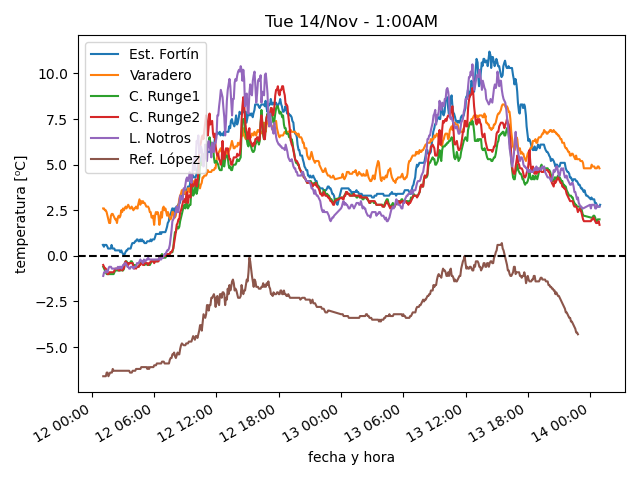
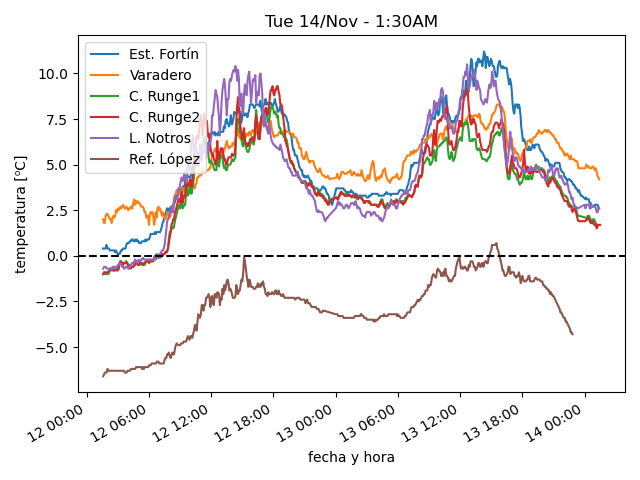
actualiza datos

diff --git a/estaciones/estacion2.html b/estaciones/estacion2.html
@@ -18,32 +18,32 @@
     </tr>
     <tr>
      <td class="stats_data">
-      12:54AM
+      1:24AM
      </td>
     </tr>
     <tr>
      <td class="stats_data">
-      4.8⁰C
+      4.2⁰C
      </td>
     </tr>
     <tr>
      <td class="stats_data">
-      0.9⁰C
+      -0.2⁰C
      </td>
     </tr>
     <tr>
      <td class="stats_data">
-      75.6%
+      73.0%
      </td>
     </tr>
     <tr>
      <td class="stats_data">
-      1020.12hPa
+      1019.91hPa
      </td>
     </tr>
     <tr>
      <td class="stats_data">
-      33.9/42.1 km/hr NW
+      18.0/24.9 km/hr WNW
      </td>
     </tr>
     <tr>

diff --git a/estaciones/estacion1.html b/estaciones/estacion1.html
@@ -18,32 +18,32 @@
     </tr>
     <tr>
      <td class="stats_data">
-      12:58AM
+      1:24AM
      </td>
     </tr>
     <tr>
      <td class="stats_data">
-      2.8⁰C
+      2.6⁰C
      </td>
     </tr>
     <tr>
      <td class="stats_data">
-      -2.9⁰C
+      -2.7⁰C
      </td>
     </tr>
     <tr>
      <td class="stats_data">
-      66.0%
+      68.0%
      </td>
     </tr>
     <tr>
      <td class="stats_data">
-      1015.24hPa
+      1014.9hPa
      </td>
     </tr>
     <tr>
      <td class="stats_data">
-      15.3/24.1 km/hr WNW
+      13.9/24.1 km/hr W
      </td>
     </tr>
     <tr>

diff --git a/estaciones/estacion3.html b/estaciones/estacion3.html
@@ -18,32 +18,32 @@
     </tr>
     <tr>
      <td class="stats_data">
-      12:54AM
+      1:14AM
      </td>
     </tr>
     <tr>
      <td class="stats_data">
-      2.0⁰C
+      1.7⁰C
      </td>
     </tr>
     <tr>
      <td class="stats_data">
-      -1.9⁰C
+      -2.3⁰C
      </td>
     </tr>
     <tr>
      <td class="stats_data">
-      75.5%
+      75.1%
      </td>
     </tr>
     <tr>
      <td class="stats_data">
-      1004.91hPa
+      1005.01hPa
      </td>
     </tr>
     <tr>
      <td class="stats_data">
-      4.2/5.8 km/hr W
+      6.3/9.4 km/hr W
      </td>
     </tr>
     <tr>

diff --git a/estaciones/estacion4.html b/estaciones/estacion4.html
@@ -18,7 +18,7 @@
     </tr>
     <tr>
      <td class="stats_data">
-      12:54AM
+      1:29AM
      </td>
     </tr>
     <tr>
@@ -28,22 +28,22 @@
     </tr>
     <tr>
      <td class="stats_data">
-      -2.5⁰C
+      -3.0⁰C
      </td>
     </tr>
     <tr>
      <td class="stats_data">
-      73.1%
+      71.2%
      </td>
     </tr>
     <tr>
      <td class="stats_data">
-      1013.61hPa
+      1013.41hPa
      </td>
     </tr>
     <tr>
      <td class="stats_data">
-      1.2/2.3 km/hr SSW
+      1.5/2.6 km/hr SSW
      </td>
     </tr>
     <tr>

diff --git a/estaciones/estacion5.html b/estaciones/estacion5.html
@@ -18,12 +18,12 @@
     </tr>
     <tr>
      <td class="stats_data">
-      12:55AM
+      1:20AM
      </td>
     </tr>
     <tr>
      <td class="stats_data">
-      2.7⁰C
+      2.6⁰C
      </td>
     </tr>
     <tr>
@@ -38,7 +38,7 @@
     </tr>
     <tr>
      <td class="stats_data">
-      1018.22hPa
+      1018.35hPa
      </td>
     </tr>
     <tr>
